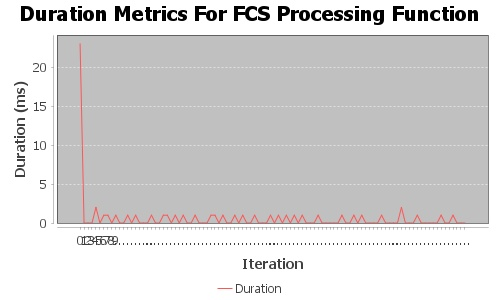
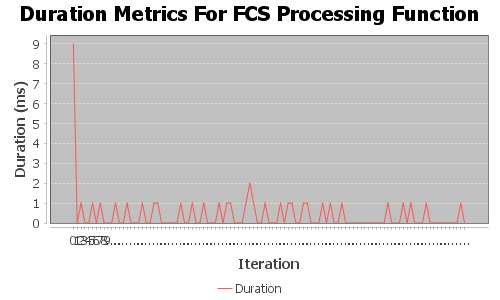
[Update] direct-exchange using 4 queues

Changed region(s): [[0.06, 0.12, 0.93, 0.84], [0.48, 0.81, 0.63, 0.9], [0.72, 0.81, 0.87, 0.84]]

diff --git a/src/main/java/com/mycompany/rts/flightcontrol/FlightControl.java b/src/main/java/com/mycompany/rts/flightcontrol/FlightControl.java
@@ -18,11 +18,18 @@ import java.util.concurrent.TimeUnit;
 import java.util.concurrent.TimeoutException;
 
 public class FlightControl {
-    private static final String EXCHANGE_NAME = "flight_control";
-    private static final String EXCHANGE_TYPE = "topic";
-    private static final String CONSUMER_ROUTING_KEY = "*.data";
-    private static final String ACTUATOR_PUBLISHER_ROUTING_KEY = "actuator.update";
-    private static final String SENSOR_PUBLISHER_ROUTING_KEY = "sensor.update";
+    private static final String EXCHANGE_NAME = "flight_control_direct";
+    private static final String EXCHANGE_TYPE = "direct";
+
+    private static final String SENSOR_CONSUMER_QUEUE_NAME = "sensor-to-fcs";
+    private static final String SENSOR_PUBLISHER_QUEUE_NAME = "fcs-to-sensor";
+    private static final String SENSOR_CONSUMER_ROUTING_KEY = "sensor_data";
+    private static final String SENSOR_PUBLISHER_ROUTING_KEY = "sensor_update";
+
+    private static final String ACTUATOR_CONSUMER_QUEUE_NAME = "actuator-to-fcs";
+    private static final String ACTUATOR_PUBLISHER_QUEUE_NAME = "fcs-to-actuator";
+    private static final String ACTUATOR_CONSUMER_ROUTING_KEY = "actuator_data";
+    private static final String ACTUATOR_PUBLISHER_ROUTING_KEY = "actuator_update";
 
     public static void main(String[] args) throws IOException, TimeoutException {
         ScheduledExecutorService executor = Executors.newScheduledThreadPool(1);
@@ -31,36 +38,23 @@ public class FlightControl {
         Connection connection = factory.newConnection();
         Channel channel = connection.createChannel();
         channel.exchangeDeclare(EXCHANGE_NAME, EXCHANGE_TYPE);
+        channel.queueDeclare(SENSOR_CONSUMER_QUEUE_NAME, false, false, false, null);
+        channel.queueDeclare(SENSOR_PUBLISHER_QUEUE_NAME, false, false, false, null);
+        channel.queueDeclare(ACTUATOR_CONSUMER_QUEUE_NAME, false, false, false, null);
+        channel.queueDeclare(ACTUATOR_PUBLISHER_QUEUE_NAME, false, false, false, null);
+        channel.queueBind(SENSOR_CONSUMER_QUEUE_NAME, EXCHANGE_NAME, SENSOR_CONSUMER_ROUTING_KEY);
+        channel.queueBind(SENSOR_PUBLISHER_QUEUE_NAME, EXCHANGE_NAME, SENSOR_PUBLISHER_QUEUE_NAME);
+        channel.queueBind(ACTUATOR_CONSUMER_QUEUE_NAME, EXCHANGE_NAME, ACTUATOR_CONSUMER_ROUTING_KEY);
+        channel.queueBind(ACTUATOR_PUBLISHER_QUEUE_NAME, EXCHANGE_NAME, ACTUATOR_PUBLISHER_ROUTING_KEY);
 
-        executor.scheduleAtFixedRate(flightControlProcessor.new FlightControlMonitor(), 0, 5, TimeUnit.SECONDS);
-        // publish landing signal after 30 seconds only one time
-        executor.schedule(
-                new LandingSignalPublisher(EXCHANGE_NAME, SENSOR_PUBLISHER_ROUTING_KEY, EXCHANGE_TYPE, "sensor"),
-                30, TimeUnit.SECONDS);
-        executor.schedule(
-                new LandingSignalPublisher(EXCHANGE_NAME, ACTUATOR_PUBLISHER_ROUTING_KEY, EXCHANGE_TYPE, "actuator"),
-                30, TimeUnit.SECONDS);
-
-        // publish on a *.update queue
-        // subscribe on a *.data queue
-        String consumerQueueName = channel.queueDeclare().getQueue();
-        channel.queueBind(consumerQueueName, EXCHANGE_NAME, CONSUMER_ROUTING_KEY);
-
-        Consumer consumer = new DefaultConsumer(channel) {
+        Consumer sensorConsumer = new DefaultConsumer(channel) {
             @Override
             public void handleDelivery(String consumerTag, Envelope envelope, AMQP.BasicProperties properties,
                     byte[] body) throws IOException {
-                String routingKey = envelope.getRoutingKey();
                 String message = new String(body, "UTF-8");
                 try {
                     flightControlProcessor.startTime = System.currentTimeMillis();
-
-                    if (routingKey.equals("sensor.data")) {
-                        processAndSendToActuator(flightControlProcessor, channel, message);
-                    } else if (routingKey.equals("actuator.data")) {
-                        processAndSendToSensor(flightControlProcessor, channel, message);
-                    }
-
+                    processAndSendToActuator(flightControlProcessor, channel, message);
                     flightControlProcessor.endTime = System.currentTimeMillis();
                     flightControlProcessor.addDuration(flightControlProcessor.getTimeDifference());
                     flightControlProcessor.cycles++;
@@ -92,7 +86,34 @@ public class FlightControl {
             }
         };
 
-        channel.basicConsume(consumerQueueName, true, consumer);
+        Consumer actuatorConsumer = new DefaultConsumer(channel) {
+            @Override
+            public void handleDelivery(String consumerTag, Envelope envelope, AMQP.BasicProperties properties,
+                    byte[] body) throws IOException {
+                String message = new String(body, "UTF-8");
+                try {
+                    double s = System.currentTimeMillis();
+                    processAndSendToSensor(flightControlProcessor, channel, message);
+                    double e = System.currentTimeMillis();
+                    flightControlProcessor.addDuration(String.valueOf(e - s));
+                    flightControlProcessor.cycles++;
+                } catch (Exception e) {
+                }
+
+            }
+        };
+
+        channel.basicConsume(SENSOR_CONSUMER_QUEUE_NAME, true, sensorConsumer);
+        channel.basicConsume(ACTUATOR_CONSUMER_QUEUE_NAME, true, actuatorConsumer);
+
+        executor.scheduleAtFixedRate(flightControlProcessor.new FlightControlMonitor(), 0, 5, TimeUnit.SECONDS);
+        // publish landing signal after 30 seconds only one time
+        executor.schedule(
+                new LandingSignalPublisher(EXCHANGE_NAME, SENSOR_PUBLISHER_ROUTING_KEY, EXCHANGE_TYPE, "sensor"),
+                30, TimeUnit.SECONDS);
+        executor.schedule(
+                new LandingSignalPublisher(EXCHANGE_NAME, ACTUATOR_PUBLISHER_ROUTING_KEY, EXCHANGE_TYPE, "actuator"),
+                30, TimeUnit.SECONDS);
     }
 
     public static void processAndSendToActuator(FlightControlProcessor flightControlProcessor, Channel channel,

diff --git a/src/main/java/com/mycompany/rts/flightcontrol/Sensors.java b/src/main/java/com/mycompany/rts/flightcontrol/Sensors.java
@@ -17,10 +17,12 @@ import com.rabbitmq.client.Envelope;
 
 public class Sensors {
 
-    protected static final String EXCHANGE_NAME = "flight_control";
-    protected static final String EXCHANGE_TYPE = "topic";
-    protected static final String PUBLISHER_ROUTING_KEY = "sensor.data";
-    protected static final String CONSUMER_ROUTING_KEY = "sensor.update";
+    protected static final String EXCHANGE_NAME = "flight_control_direct";
+    protected static final String EXCHANGE_TYPE = "direct";
+    protected static final String PUBLISHER_ROUTING_KEY = "sensor_data";
+    protected static final String CONSUMER_ROUTING_KEY = "sensor_update";
+    protected static final String SENSOR_CONSUMER_QUEUE_NAME = "fcs-to-sensor";
+    protected static final String SENSOR_PUBLISHER_QUEUE_NAME = "sensor-to-fcs";
 
     public static void main(String[] args) throws IOException, TimeoutException {
         // ------------------------------- PRODUCERS -------------------------------
@@ -32,22 +34,15 @@ public class Sensors {
         ScheduledExecutorService landingAltitudeDataExecutor = Executors.newScheduledThreadPool(1);
         ScheduledExecutorService landingSpeedDataExecutor = Executors.newScheduledThreadPool(1);
 
-        for (String sensorType : sensorTypes) {
-            mockDataGeneratorExecutor.scheduleAtFixedRate(mockSensorData.new SensorDataGenerator(sensorType),
-                    4, 4, TimeUnit.SECONDS);
-        }
-        publisherExecutor.scheduleAtFixedRate(
-                mockSensorData.new SensorDataPublisher(EXCHANGE_NAME, PUBLISHER_ROUTING_KEY, EXCHANGE_TYPE),
-                5, 5, TimeUnit.SECONDS);
-
         // ------------------------------- CONSUMERS -------------------------------
         ConnectionFactory factory = new ConnectionFactory();
         Connection connection = factory.newConnection();
         Channel channel = connection.createChannel();
         channel.exchangeDeclare(EXCHANGE_NAME, EXCHANGE_TYPE);
-
-        String consumerQueueName = channel.queueDeclare().getQueue();
-        channel.queueBind(consumerQueueName, EXCHANGE_NAME, CONSUMER_ROUTING_KEY);
+        channel.queueDeclare(SENSOR_CONSUMER_QUEUE_NAME, false, false, false, null);
+        channel.queueDeclare(SENSOR_PUBLISHER_QUEUE_NAME, false, false, false, null);
+        channel.queueBind(SENSOR_CONSUMER_QUEUE_NAME, EXCHANGE_NAME, CONSUMER_ROUTING_KEY);
+        channel.queueBind(SENSOR_PUBLISHER_QUEUE_NAME, EXCHANGE_NAME, PUBLISHER_ROUTING_KEY);
 
         Consumer consumer = new DefaultConsumer(channel) {
             @Override
@@ -69,7 +64,15 @@ public class Sensors {
             }
         };
 
-        channel.basicConsume(consumerQueueName, true, consumer);
+        channel.basicConsume(SENSOR_CONSUMER_QUEUE_NAME, true, consumer);
+
+        for (String sensorType : sensorTypes) {
+            mockDataGeneratorExecutor.scheduleAtFixedRate(mockSensorData.new SensorDataGenerator(sensorType),
+                    4, 4, TimeUnit.SECONDS);
+        }
+        publisherExecutor.scheduleAtFixedRate(
+                mockSensorData.new SensorDataPublisher(EXCHANGE_NAME, PUBLISHER_ROUTING_KEY, EXCHANGE_TYPE),
+                5, 5, TimeUnit.SECONDS);
     }
 
     public static void checkFlightModeAndProcess(String message, MockSensorData mockSensorData) {

diff --git a/src/main/java/com/mycompany/rts/flightcontrol/Actuators.java b/src/main/java/com/mycompany/rts/flightcontrol/Actuators.java
@@ -13,19 +13,22 @@ import com.rabbitmq.client.DefaultConsumer;
 import com.rabbitmq.client.Envelope;
 
 public class Actuators {
-    private static final String EXCHANGE_NAME = "flight_control";
-    private static final String EXCHANGE_TYPE = "topic";
-    private static final String CONSUMER_ROUTING_KEY = "actuator.update";
-    private static final String PUBLISHER_ROUTING_KEY = "actuator.data";
+    private static final String EXCHANGE_NAME = "flight_control_direct";
+    private static final String EXCHANGE_TYPE = "direct";
+    private static final String CONSUMER_ROUTING_KEY = "actuator_update";
+    private static final String PUBLISHER_ROUTING_KEY = "actuator_data";
+    private static final String ACTUATOR_CONSUMER_QUEUE_NAME = "fcs-to-actuator";
+    private static final String ACTUATOR_PUBLISHER_QUEUE_NAME = "actuator-to-fcs";
 
     public static void main(String[] args) throws IOException, TimeoutException {
         ConnectionFactory factory = new ConnectionFactory();
         Connection connection = factory.newConnection();
         Channel channel = connection.createChannel();
         channel.exchangeDeclare(EXCHANGE_NAME, EXCHANGE_TYPE);
-
-        String consumerQueueName = channel.queueDeclare().getQueue();
-        channel.queueBind(consumerQueueName, EXCHANGE_NAME, CONSUMER_ROUTING_KEY);
+        channel.queueDeclare(ACTUATOR_CONSUMER_QUEUE_NAME, false, false, false, null);
+        channel.queueDeclare(ACTUATOR_PUBLISHER_QUEUE_NAME, false, false, false, null);
+        channel.queueBind(ACTUATOR_CONSUMER_QUEUE_NAME, EXCHANGE_NAME, CONSUMER_ROUTING_KEY);
+        channel.queueBind(ACTUATOR_PUBLISHER_QUEUE_NAME, EXCHANGE_NAME, PUBLISHER_ROUTING_KEY);
 
         Consumer consumer = new DefaultConsumer(channel) {
             @Override
@@ -54,7 +57,7 @@ public class Actuators {
             }
         };
 
-        channel.basicConsume(consumerQueueName, true, consumer);
+        channel.basicConsume(ACTUATOR_CONSUMER_QUEUE_NAME, true, consumer);
     }
 
     public static ArrayList<String> getAcknowledgementMessage(String message) {
@@ -63,6 +66,7 @@ public class Actuators {
         String[] tokens = message.split(" ");
         String[] sensors = tokens[1].trim().replaceAll("[\\[\\]]", "").split(",");
         for (String sensor : sensors) {
+            sensor = sensor.trim();
             if (sensor.equals("vents")) {
                 acknowledgementMessages.add(sensor + " " + tokens[0] + " for 10 seconds");
                 continue;
